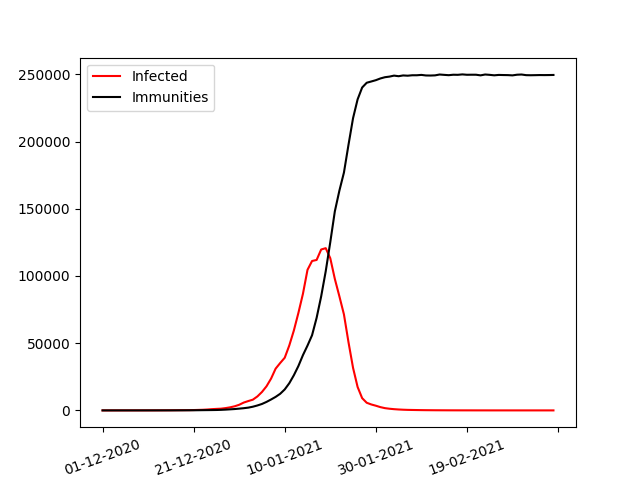
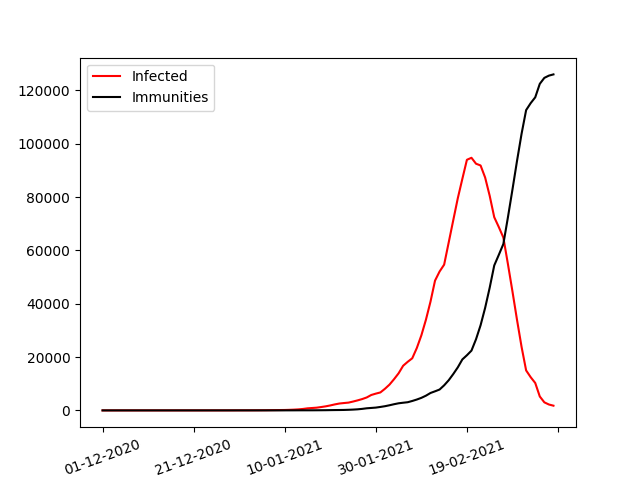
Actually goes between cities and displays on both graphs

diff --git a/Places/place.py b/Places/place.py
@@ -8,7 +8,6 @@ import math
 
 class Building(environment.Environment):
     # Building class will contain hosts and handle their interactions
-    # TODO make two different kinds of building - One with moving population and one with fixed population
     def __init__(self, activePeriod, name, infectionMultiplier, hostObjects):
         super(Building, self).__init__(name, activePeriod, infectionMultiplier)
         self.populate(hostObjects)
@@ -49,10 +48,6 @@ class Building(environment.Environment):
                     for uip in random.sample(uninfectedHosts, interactions):
                         if random.randint(0, 100) < (disease.infectionChance * 100):
                             uip.infected = True
-
-        # TODO Move to city as it will be double counted here
-        self.increment(disease)
-        self.decrement(disease)
 
     def getInfectedHosts(self):
         # Returns the infected host objects
@@ -123,7 +118,7 @@ class City(container.Container):
         # for o in self.objects:
         #     hostObjects += o.hosts
 
-        for e in environmentInfo:  # TODO make shops
+        for e in environmentInfo:
             if e[0] == "House":
                 for x in range(e[1]):
                     hostCount = numberHandler.weightedRandom(e[2], e[3], e[4])
@@ -155,10 +150,9 @@ class City(container.Container):
                         hostsToGo += hostsInEducation
                     self.objects.append(Building(e[5], e[0], e[6], hostsToGo))
             elif e[0] == "Shop":
-                nullList = []
                 self.shopRange += e[2], e[3], e[4]
                 for x in range(e[1]):
-                    self.objects.append(Building(e[5], e[0], e[6], nullList))
+                    self.objects.append(Building(e[5], e[0], e[6], []))
 
         print("Made environments and added hosts for {}".format(self.name))
         print("Finished {}".format(self.name))
@@ -166,16 +160,30 @@ class City(container.Container):
     def getImmuneCount(self):
         count = 0
         for building in self.objects:
-            count += building.getImmuneCount()
+            if building.name == "House":
+                count += building.getImmuneCount()
 
         return count
 
     def getInfectedCount(self):
         count = 0
         for building in self.objects:
-            count += building.getInfectedCount()
+            if building.name == "House":
+                count += building.getInfectedCount()
 
         return count
+
+    def increment(self, disease):
+        for o in self.objects:
+            if o.name == "House":
+                for h in o.hosts:
+                    h.increment(disease)
+
+    def decrement(self, disease):
+        for o in self.objects:
+            if o.name == "House":
+                for h in o.hosts:
+                    h.decrement(disease)
 
     def getCommuters(self, percentage):
         toReturn = []
@@ -195,11 +203,12 @@ class City(container.Container):
                     o.hosts.append(hostObjects.pop(0))
             o.timeStep(disease, day)
         self.commutePopulation = random.sample(self.hosts, round(len(self.hosts)*(self.commutePercentage/100)))
+        self.increment(disease)
+        self.decrement(disease)
 
 
 class Country(container.Container):
     # Country will contain and interact between cities
-    # TODO Swap commuting populations
     def __init__(self, name):
         super().__init__(name)
         self.percentageMatrix = []
@@ -241,7 +250,7 @@ class Country(container.Container):
         # make halfway houses
         halfwayCount = (math.pow(len(self.objects)-1, 2) - len(self.objects)-1)/2  # Triangle numbers
         # TODO make list of used combination indexes?
-        self.halfwayHouses = [[Building("Everyday", "HalfwayHouse", 0.8, []) for x in range(len(cityDetails))] for y in range(len(cityDetails))]
+        self.halfwayHouses = [[Building("Everyday", "HalfwayHouse", 0.5, []) for x in range(len(cityDetails))] for y in range(len(cityDetails))]
         usedIndexes = []
         # TODO Make cities return the people to add to the halfway house
 
@@ -266,6 +275,7 @@ class Country(container.Container):
         for row in range(len(self.halfwayHouses[0])-1):
             for col in range(row+1, len(self.halfwayHouses[0])):
                 self.halfwayHouses[row][col].hosts += self.objects[row].getCommuters(self.percentageMatrix[row][col])
+                self.halfwayHouses[row][col].hosts += self.objects[col].getCommuters(self.percentageMatrix[col][row])
 
         # for cityFrom, row in enumerate(self.halfwayHouses):
         #     for cityTo, halfwayHouse in enumerate(row):

diff --git a/model.py b/model.py
@@ -14,18 +14,21 @@ class Model(object):
         self.plotter = pltr.Plotter(db)
         self.db = db
 
-    def timeStep(self, country, res, i):
+    def timeStep(self, topLevel, res, i):
         dayName = ['Monday', 'Tuesday', 'Wednesday', 'Thursday', 'Friday', 'Saturday', 'Sunday']
         day = datetime.strptime(res, '%d-%m-%Y').weekday()
         # passes time on all places depending on the day of the week
         infected = 0
         prevInfected = 0
-        prevInfected += country.getInfectedCount()
-        country.timeStep(self.disease, dayName[day])
-        infected += country.getInfectedCount()
+        prevInfected += topLevel.getInfectedCount()
+        topLevel.timeStep(self.disease, dayName[day])
+        infected += topLevel.getInfectedCount()
 
-        for city in country.objects:
-            self.db.writeOutput(city.name, i, infected, city.getImmuneCount())
+        for o in topLevel.objects:
+            imm = o.getImmuneCount()
+            inf = o.getInfectedCount()
+            self.db.writeOutput(o.name, i, inf, imm)
+            print("{} - {}, {}".format(o.name, inf, imm))
 
         try:
             rNaught = infected/prevInfected

diff --git a/main.py b/main.py
@@ -11,6 +11,7 @@ if __name__ == '__main__':
     startDateMonth = 12
     startDateYear = 2020
     startDate = [startDateDay, startDateMonth, startDateYear]
+    # TODO populate runtime and start date from the database
 
     disease = disease.Disease()
     # TODO for modeling vectors record the number of vectors that will be in each environment. Then use those numbers when infecting. instead of for each infected person it will be for each vector

diff --git a/person.py b/person.py
@@ -13,7 +13,6 @@ class Person(host.Host):
         return self.age
 
     def increment(self, disease):
-        self.decrement(disease)
         # increases time infected on people infected
         if self.infected and not self.immune:
             self.latencyTime += 1

diff --git a/disease.py b/disease.py
@@ -9,3 +9,4 @@ class Disease(disease.Disease):
         self.infectionChance = 0.1
         self.duration = 14
         self.immunityProb = 100
+        # TODO populate this from the database
